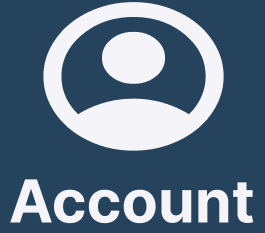
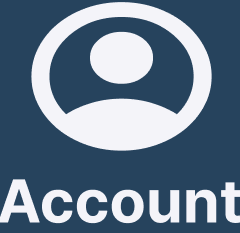
Version 23: FInal version after Iterative improvement.

diff --git a/loggedIn.html b/loggedIn.html
@@ -30,7 +30,7 @@
 		</div>
         
         <div class="banner-box">
-            <img class="banner" src="images/bannerContact.jpg" alt="Banner">
+            <img class="banner" src="images/loggedInBanner.png" alt="Banner">
             <div class="banner-text">
                 <h1>You are now logged in</h1>
                 <div class="nav-buttons"><button type="button" onclick="document.location='index.html'">Home</button></div>
@@ -42,13 +42,28 @@
     </body>
     <footer>
         <section class="header-footer">
-            <div class="socials">
-                <table>
-                    <tr>
-                        <td><a href="https://www.instagram.com"><img class="socials-img" src="images/instagram.jpg" alt="Instagram"></a></td>
-                        <td><a href="https://www.facebook.com"><img class="socials-img" src="images/facebook.jpg" alt="Facebook"></a></td>
-                    </tr>
-                </table>
+            <div class="footer">
+                <div class="socials">
+                    <table>
+                        <tr>
+                            <td><a href="https://www.instagram.com"><img class="socials-img" src="images/instagram.jpg" alt="Instagram"></a></td>
+                            <td><a href="https://www.facebook.com"><img class="socials-img" src="images/facebook.jpg" alt="Facebook"></a></td>
+                        </tr>
+                    </table>
+                </div>
+                <div class="footer-links">
+                    <table class="footer-table">
+                        <tr>
+                            <td><a href="index.html">Home</a></td>
+                            <td><a href="houseSitters.html">House sitters</a></td>
+                            <td><a href="contact.html">Contact</a></td>
+                            <td><a href="about.html">About us</a></td>
+                        </tr>
+                    </table>
+                </div>
+                <div class="footer-text">
+                    <p>© 2024 Trusted House Sitters. All rights reserved.</p>
+                </div>
             </div>
         </section>
     </footer>

diff --git a/houseSItters.html b/houseSItters.html
@@ -149,13 +149,28 @@ Our sitters come from a wide range of backgrounds, including experienced pet own
     <!--Footer section with social media links-->
     <footer>
         <section class="header-footer">
-            <div class="socials">
-                <table>
-                    <tr>
-                        <td><a href="https://www.instagram.com"><img class="socials-img" src="images/instagram.jpg" alt="Instagram"></a></td>
-                        <td><a href="https://www.facebook.com"><img class="socials-img" src="images/facebook.jpg" alt="Facebook"></a></td>
-                    </tr>
-                </table>
+            <div class="footer">
+                <div class="socials">
+                    <table>
+                        <tr>
+                            <td><a href="https://www.instagram.com"><img class="socials-img" src="images/instagram.jpg" alt="Instagram"></a></td>
+                            <td><a href="https://www.facebook.com"><img class="socials-img" src="images/facebook.jpg" alt="Facebook"></a></td>
+                        </tr>
+                    </table>
+                </div>
+                <div class="footer-links">
+                    <table class="footer-table">
+                        <tr>
+                            <td><a href="index.html">Home</a></td>
+                            <td><a href="houseSitters.html">House sitters</a></td>
+                            <td><a href="contact.html">Contact</a></td>
+                            <td><a href="about.html">About us</a></td>
+                        </tr>
+                    </table>
+                </div>
+                <div class="footer-text">
+                    <p>© 2024 Trusted House Sitters. All rights reserved.</p>
+                </div>
             </div>
         </section>
     </footer>

diff --git a/index.html b/index.html
@@ -104,13 +104,28 @@
     <!--Footer section with social media links-->
     <footer>
         <section class="header-footer">
-            <div class="socials">
-                <table>
-                    <tr>
-                        <td><a href="https://www.instagram.com"><img class="socials-img" src="images/instagram.jpg" alt="Instagram"></a></td>
-                        <td><a href="https://www.facebook.com"><img class="socials-img" src="images/facebook.jpg" alt="Facebook"></a></td>
-                    </tr>
-                </table>
+            <div class="footer">
+                <div class="socials">
+                    <table>
+                        <tr>
+                            <td><a href="https://www.instagram.com"><img class="socials-img" src="images/instagram.jpg" alt="Instagram"></a></td>
+                            <td><a href="https://www.facebook.com"><img class="socials-img" src="images/facebook.jpg" alt="Facebook"></a></td>
+                        </tr>
+                    </table>
+                </div>
+                <div class="footer-links">
+                    <table class="footer-table">
+                        <tr>
+                            <td><a href="index.html">Home</a></td>
+                            <td><a href="houseSitters.html">House sitters</a></td>
+                            <td><a href="contact.html">Contact</a></td>
+                            <td><a href="about.html">About us</a></td>
+                        </tr>
+                    </table>
+                </div>
+                <div class="footer-text">
+                    <p>© 2024 Trusted House Sitters. All rights reserved.</p>
+                </div>
             </div>
         </section>
     </footer>

diff --git a/about.html b/about.html
@@ -79,13 +79,28 @@
     <!--Footer section with social media links-->
     <footer>
         <section class="header-footer">
-            <div class="socials">
-                <table>
-                    <tr>
-                        <td><a href="https://www.instagram.com"><img class="socials-img" src="images/instagram.jpg" alt="Instagram"></a></td>
-                        <td><a href="https://www.facebook.com"><img class="socials-img" src="images/facebook.jpg" alt="Facebook"></a></td>
-                    </tr>
-                </table>
+            <div class="footer">
+                <div class="socials">
+                    <table>
+                        <tr>
+                            <td><a href="https://www.instagram.com"><img class="socials-img" src="images/instagram.jpg" alt="Instagram"></a></td>
+                            <td><a href="https://www.facebook.com"><img class="socials-img" src="images/facebook.jpg" alt="Facebook"></a></td>
+                        </tr>
+                    </table>
+                </div>
+                <div class="footer-links">
+                    <table class="footer-table">
+                        <tr>
+                            <td><a href="index.html">Home</a></td>
+                            <td><a href="houseSitters.html">House sitters</a></td>
+                            <td><a href="contact.html">Contact</a></td>
+                            <td><a href="about.html">About us</a></td>
+                        </tr>
+                    </table>
+                </div>
+                <div class="footer-text">
+                    <p>© 2024 Trusted House Sitters. All rights reserved.</p>
+                </div>
             </div>
         </section>
     </footer>

diff --git a/contact.html b/contact.html
@@ -72,13 +72,28 @@
     </body>
     <footer>
         <section class="header-footer">
-            <div class="socials">
-                <table>
-                    <tr>
-                        <td><a href="https://www.instagram.com"><img class="socials-img" src="images/instagram.jpg" alt="Instagram"></a></td>
-                        <td><a href="https://www.facebook.com"><img class="socials-img" src="images/facebook.jpg" alt="Facebook"></a></td>
-                    </tr>
-                </table>
+            <div class="footer">
+                <div class="socials">
+                    <table>
+                        <tr>
+                            <td><a href="https://www.instagram.com"><img class="socials-img" src="images/instagram.jpg" alt="Instagram"></a></td>
+                            <td><a href="https://www.facebook.com"><img class="socials-img" src="images/facebook.jpg" alt="Facebook"></a></td>
+                        </tr>
+                    </table>
+                </div>
+                <div class="footer-links">
+                    <table class="footer-table">
+                        <tr>
+                            <td><a href="index.html">Home</a></td>
+                            <td><a href="houseSitters.html">House sitters</a></td>
+                            <td><a href="contact.html">Contact</a></td>
+                            <td><a href="about.html">About us</a></td>
+                        </tr>
+                    </table>
+                </div>
+                <div class="footer-text">
+                    <p>© 2024 Trusted House Sitters. All rights reserved.</p>
+                </div>
             </div>
         </section>
     </footer>

diff --git a/contactCompany.html b/contactCompany.html
@@ -72,13 +72,28 @@
     </body>
     <footer>
         <section class="header-footer">
-            <div class="socials">
-                <table>
-                    <tr>
-                        <td><a href="https://www.instagram.com"><img class="socials-img" src="images/instagram.jpg" alt="Instagram"></a></td>
-                        <td><a href="https://www.facebook.com"><img class="socials-img" src="images/facebook.jpg" alt="Facebook"></a></td>
-                    </tr>
-                </table>
+            <div class="footer">
+                <div class="socials">
+                    <table>
+                        <tr>
+                            <td><a href="https://www.instagram.com"><img class="socials-img" src="images/instagram.jpg" alt="Instagram"></a></td>
+                            <td><a href="https://www.facebook.com"><img class="socials-img" src="images/facebook.jpg" alt="Facebook"></a></td>
+                        </tr>
+                    </table>
+                </div>
+                <div class="footer-links">
+                    <table class="footer-table">
+                        <tr>
+                            <td><a href="index.html">Home</a></td>
+                            <td><a href="houseSitters.html">House sitters</a></td>
+                            <td><a href="contact.html">Contact</a></td>
+                            <td><a href="about.html">About us</a></td>
+                        </tr>
+                    </table>
+                </div>
+                <div class="footer-text">
+                    <p>© 2024 Trusted House Sitters. All rights reserved.</p>
+                </div>
             </div>
         </section>
     </footer>

diff --git a/contactHouseSitter.html b/contactHouseSitter.html
@@ -72,13 +72,28 @@
     </body>
     <footer>
         <section class="header-footer">
-            <div class="socials">
-                <table>
-                    <tr>
-                        <td><a href="https://www.instagram.com"><img class="socials-img" src="images/instagram.jpg" alt="Instagram"></a></td>
-                        <td><a href="https://www.facebook.com"><img class="socials-img" src="images/facebook.jpg" alt="Facebook"></a></td>
-                    </tr>
-                </table>
+            <div class="footer">
+                <div class="socials">
+                    <table>
+                        <tr>
+                            <td><a href="https://www.instagram.com"><img class="socials-img" src="images/instagram.jpg" alt="Instagram"></a></td>
+                            <td><a href="https://www.facebook.com"><img class="socials-img" src="images/facebook.jpg" alt="Facebook"></a></td>
+                        </tr>
+                    </table>
+                </div>
+                <div class="footer-links">
+                    <table class="footer-table">
+                        <tr>
+                            <td><a href="index.html">Home</a></td>
+                            <td><a href="houseSitters.html">House sitters</a></td>
+                            <td><a href="contact.html">Contact</a></td>
+                            <td><a href="about.html">About us</a></td>
+                        </tr>
+                    </table>
+                </div>
+                <div class="footer-text">
+                    <p>© 2024 Trusted House Sitters. All rights reserved.</p>
+                </div>
             </div>
         </section>
     </footer>

diff --git a/style.css b/style.css
@@ -51,7 +51,7 @@ h2{
 /* Style for the icon logo icon */
 .icon{
     width: 6vw;
-    height: auto;
+    height: 6vw;
 }
 
 /* Style for the banner image */
@@ -232,8 +232,8 @@ button:hover{
     overflow: hidden;
     border: 2px solid black;
     border-spacing: 0;
-    margin-top: 3%;
-    margin-bottom: 3%;
+    margin-top: 5%;
+    margin-bottom: 5%;
     width: 40%;
 }
 
@@ -298,4 +298,58 @@ div.socials{
     display: flex;
     gap: 20px;
     margin-top: 15px;
+}
+
+div.account-header {
+    margin: auto;
+    text-align: center;
+    margin-top: 20px;
+    margin-bottom: 20px;
+    width: 25vw;
+}
+
+.account-header{
+    background-color: #F4F4F9b3;
+    padding-top: 0.1%;
+    padding-bottom: 0.1%;
+    padding-right: 1%;
+    padding-left: 1%;
+    border-radius: 10px;
+}
+
+.footer-table{
+    width: 100%;
+    height: 100%;
+    border-spacing: 0;
+    padding: 0;
+}
+
+.footer-table a{
+    text-decoration: none;
+    color: #F4F4F9;
+}
+
+.footer-table a:hover{
+    text-decoration: underline;
+    color: #F4F4F9;
+}
+
+.footer-links{
+    text-align: center;
+    padding: 0;
+    margin: auto;
+    width: 40%;
+    bottom: 10px;
+}
+
+.footer{
+    display: flex;
+    justify-content: space-between;
+    align-items: center;
+}
+
+.footer-text p{
+    font-family: 'Inter';
+    font-size: 1vw;
+    color: #F4F4F9;
 }

diff --git a/account.php b/account.php
@@ -80,12 +80,8 @@ if ($_SERVER["REQUEST_METHOD"] === "POST") {
 			</div>
 		</section>
 
-        <!--Banner image with text-->
-        <div class="banner-box">
-            <img class="banner" src="images/bannerAccount.png" alt="Banner">
-            <div class="banner-text">
-                <h1>Account</h1>
-            </div>
+        <div class="account-header">
+            <h1>Account</h1>
         </div>
 
         <!--Login form-->
@@ -117,13 +113,28 @@ if ($_SERVER["REQUEST_METHOD"] === "POST") {
     <!--Footer section with social media links-->
     <footer>
         <section class="header-footer">
-            <div class="socials">
-                <table>
-                    <tr>
-                        <td><a href="https://www.instagram.com"><img class="socials-img" src="images/instagram.jpg" alt="Instagram"></a></td>
-                        <td><a href="https://www.facebook.com"><img class="socials-img" src="images/facebook.jpg" alt="Facebook"></a></td>
-                    </tr>
-                </table>
+            <div class="footer">
+                <div class="socials">
+                    <table>
+                        <tr>
+                            <td><a href="https://www.instagram.com"><img class="socials-img" src="images/instagram.jpg" alt="Instagram"></a></td>
+                            <td><a href="https://www.facebook.com"><img class="socials-img" src="images/facebook.jpg" alt="Facebook"></a></td>
+                        </tr>
+                    </table>
+                </div>
+                <div class="footer-links">
+                    <table class="footer-table">
+                        <tr>
+                            <td><a href="index.html">Home</a></td>
+                            <td><a href="houseSitters.html">House sitters</a></td>
+                            <td><a href="contact.html">Contact</a></td>
+                            <td><a href="about.html">About us</a></td>
+                        </tr>
+                    </table>
+                </div>
+                <div class="footer-text">
+                    <p>© 2024 Trusted House Sitters. All rights reserved.</p>
+                </div>
             </div>
         </section>
     </footer>
